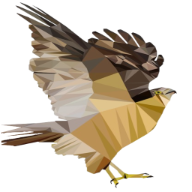
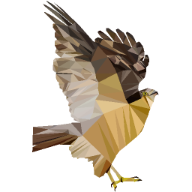
Update branding

diff --git a/www/src/App.vue b/www/src/App.vue
@@ -2,7 +2,7 @@
   <SidebarProvider class="h-svh">
     <Sidebar desktop-static class="mt-3.5 mb-6 mx-6 min-w-[185px] flex flex-col">
       <SidebarHeader>
-        <img src="sparrowhawk-transparent.png" alt="Sparrowhawk" class="h-[120px] w-fit">
+        <img src="sparrowhawk_logo_web.png" alt="Sparrowhawk" class="h-[120px] w-fit">
       </SidebarHeader>
       <SidebarContent>
         <SidebarGroup>
